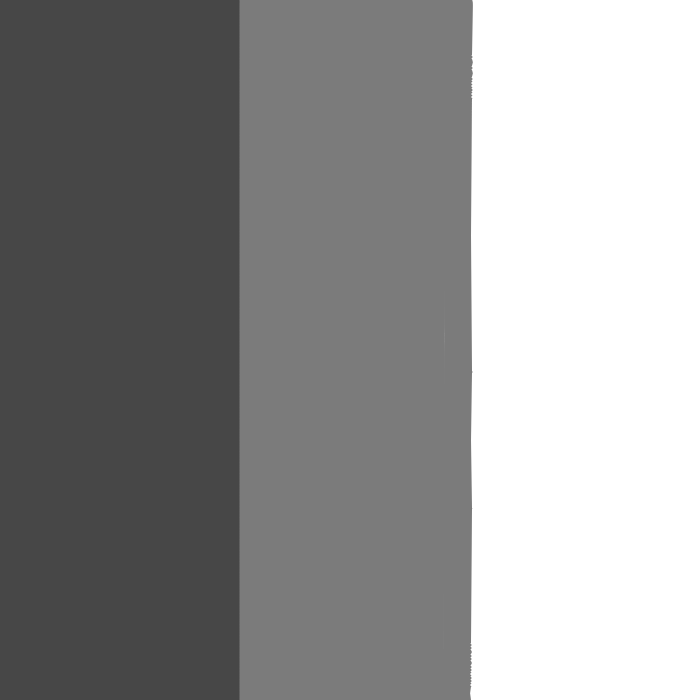
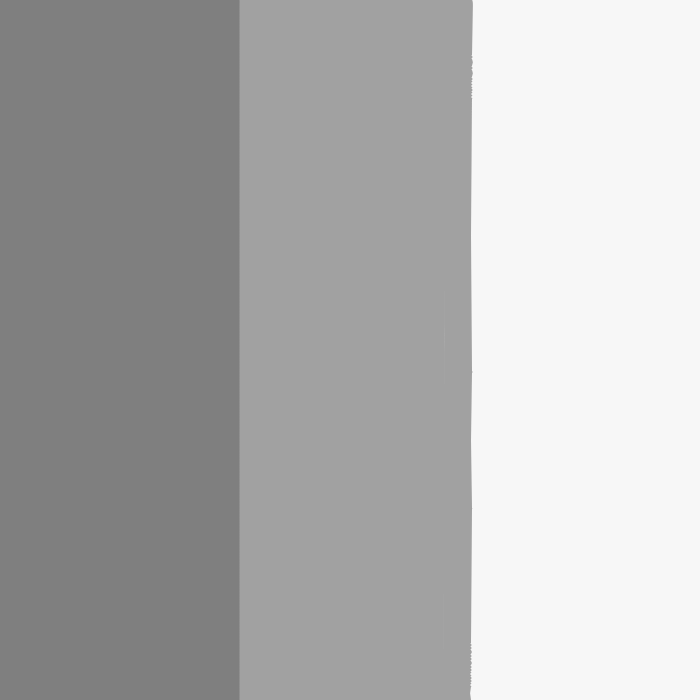
ライト修正

diff --git a/Hullien/Hullien/SourceCode/GameObject/UFOLight/UFOLight.cpp b/Hullien/Hullien/SourceCode/GameObject/UFOLight/UFOLight.cpp
@@ -86,7 +86,7 @@ void CUFOLight::Render()
 	m_pStaticMesh->SetPosition( m_vPosition );
 	m_pStaticMesh->SetRotation( m_vRotation );
 	m_pStaticMesh->SetScale( m_vScale );
-	m_pStaticMesh->SetColor( { 5.0f, 5.0f, 5.0f, 0.3f } );
+	m_pStaticMesh->SetColor( { 2.0f, 2.0f, 2.0f, 0.5f } );
 	m_pStaticMesh->SetCoverage( true );
 	m_pStaticMesh->SetRasterizerState( ERS_STATE::Back );
 	m_pStaticMesh->Render( true );
